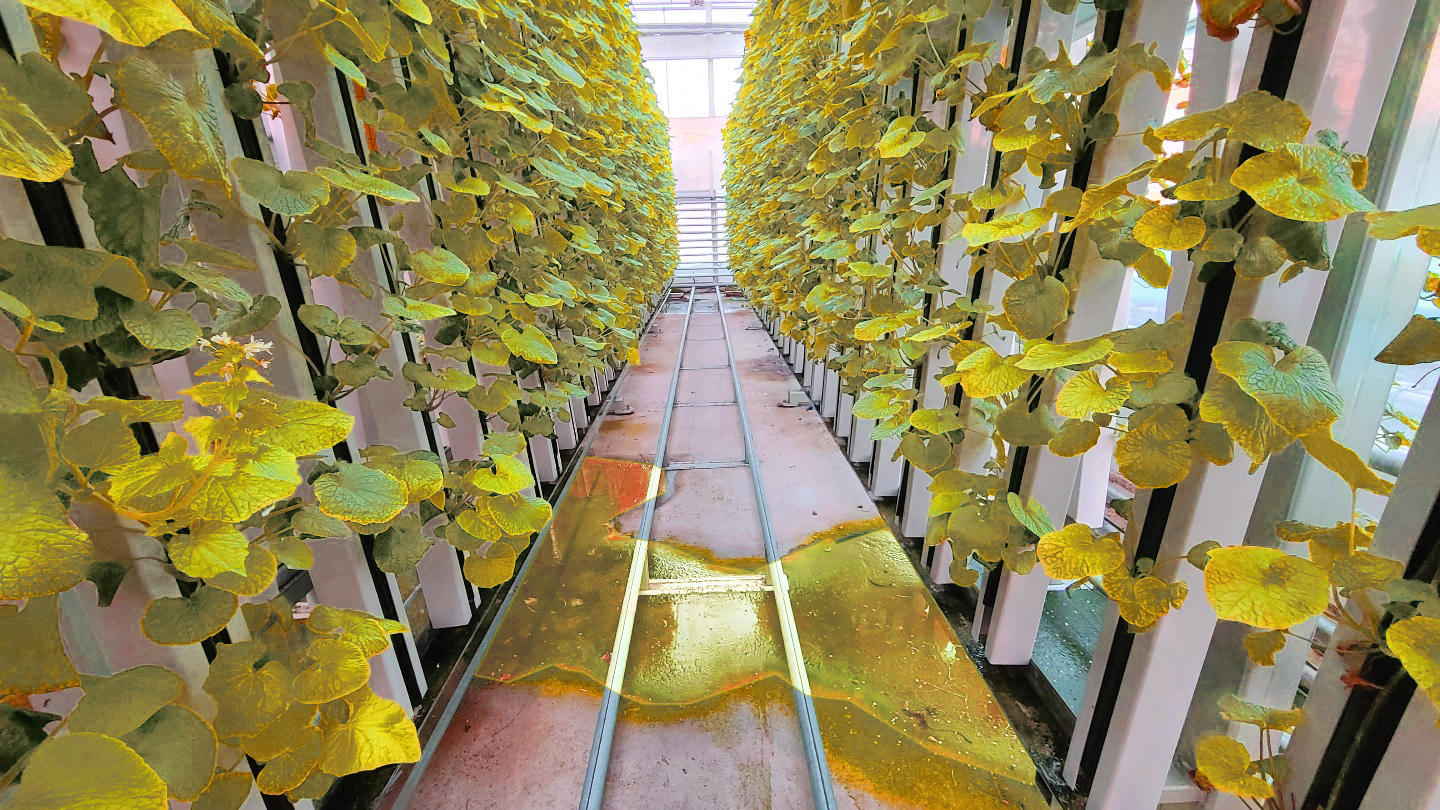
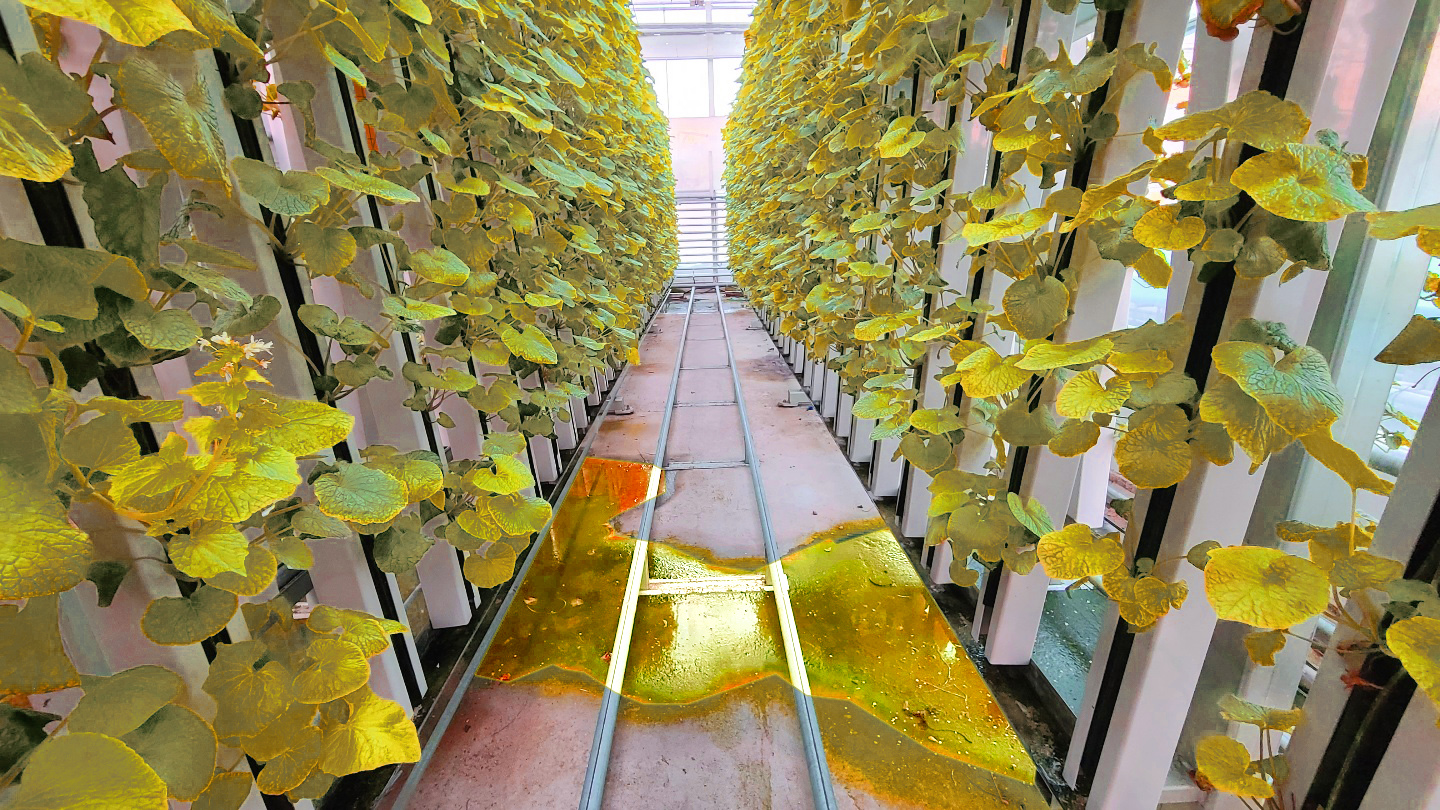
bug fix 3

Changed region(s): [[0.3125, 0.5556, 0.7188, 0.9877]]

diff --git a/docs/1재배실2.html b/docs/1재배실2.html
@@ -41,6 +41,16 @@
     <script src="https://ajax.googleapis.com/ajax/libs/jquery/3.6.0/jquery.min.js"></script>
     <script src="../js/bag.js"></script>
     <script>
+      let time = "";
+      addEventListener("load", () => {
+        time = window.localStorage.getItem("time");
+        if (time === "1") {
+          if (window.localStorage.getItem("onWeed") === "true")
+            document.querySelector("#background").style.backgroundImage =
+              "url('../source/1제배실2_yellow.jpg')";
+        }
+      });
+
       const goBack = () => {
         window.location.assign("1재배실.html");
       };

diff --git a/docs/1재배실.html b/docs/1재배실.html
@@ -32,6 +32,16 @@
     <script src="https://ajax.googleapis.com/ajax/libs/jquery/3.6.0/jquery.min.js"></script>
     <script src="../js/bag.js"></script>
     <script>
+      let time = "";
+      addEventListener("load", () => {
+        time = window.localStorage.getItem("time");
+        if (time === "1") {
+          if (window.localStorage.getItem("onWeed") === "true")
+            document.querySelector("#background").style.backgroundImage =
+              "url('../source/1재배실_yellow.jpg')";
+        }
+      });
+
       const goBack = () => {
         window.location.assign("door1.html");
       };
